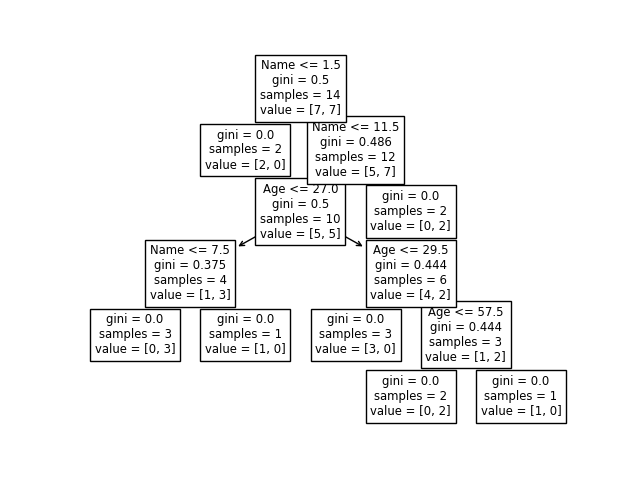
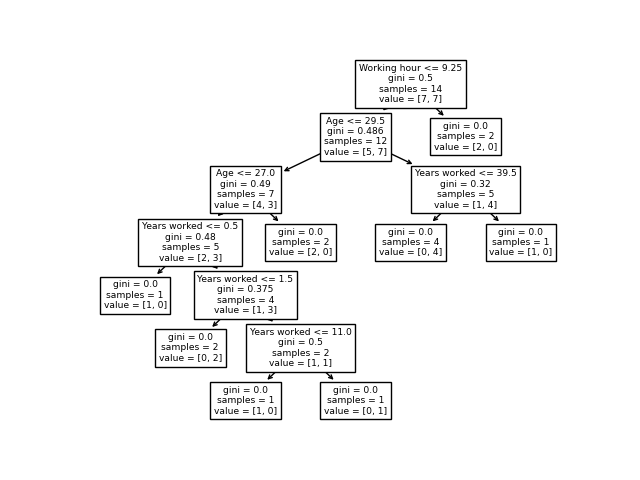
Try to make it simpler and be able to make prediction.

Changed region(s): [[0.125, 0.0938, 0.9062, 0.9062]]

diff --git a/TreeDiagramer.py b/TreeDiagramer.py
@@ -1,4 +1,6 @@
 import math
+
+import numpy
 import pandas as pd
 from sklearn import tree
 from matplotlib import pyplot as plt
@@ -19,9 +21,14 @@ def EntropyCalc(probabilities: list) -> float:
 
     return entro
 
-class GetInfoDataFrame():
-    def __init__(self,datas:pd.DataFrame):  #Put in the dataset.
+class TreeDiagramer():
+    def __init__(self,datas:pd.DataFrame,outputColmn:str=None,saveFigFileName:str=None):  #Put in the dataset.
         self.Dataset=datas
+        self.GettingInfoFromDataset()
+        self.MappingDataset()
+
+        if outputColmn!=None:
+            self.TreeDiagramingDataset(outputColmn=outputColmn,absltFileName=saveFigFileName)
 
     def GettingInfoFromDataset(self):
         self.Colmns: list = self.Dataset.columns.tolist()   #Get the columns.
@@ -70,19 +77,22 @@ class GetInfoDataFrame():
             self.treeDgrmYVals=self.MappedDataset[outputColmn]
 
             self.treeDgrm=tree.DecisionTreeClassifier()
-            self.treeDgrm=self.treeDgrm.fit(self.treeDgrmXVals,self.treeDgrmYVals)
+            self.treeDgrm=self.treeDgrm.fit(self.treeDgrmXVals.values,self.treeDgrmYVals.values)    #Fit only the values.
 
             tree.plot_tree(self.treeDgrm,feature_names=self.featrs)
 
             if absltFileName!=None:
                 plt.savefig(absltFileName)
 
+    def Predict(self,inputs:list):  #This method can be used to make predictions using the decision tree.
+        return self.treeDgrm.predict(inputs)
+
 #Example for how to use:
 if __name__=="__main__":
     #Create a dictionary that contains data, the data needed is in pandas.DataFrame datatype:
     data:dict={
-        "Name":["Mike","Aby","Jack","Tom","Jessica","Tony","Thomas","Samantha","Sandy","Ken","Alvin","Alice","Amanda","Joseph"],
         "Age":[36,24,26,29,24,30,29,24,24,28,55,60,59,60],
+        "Years worked":[12,0,1,2,1,4,21,20,2,5,35,40,39,37],
         "Gender":["Male","Female","Male","Male","Female","Male","Male","Female","Female","Male","Male","Female","Female","Male"],
         "Working hour":[12,8,8,10,8.5,8,8,8,8,0,6,7.5,7,7],
         "Able to join the company vacation":[False,False,True,False,True,True,False,True,False,False,True,False,True,True]
@@ -91,10 +101,7 @@ if __name__=="__main__":
     print("The data is make out by random with no mean to harm anyone:")
 
     df:pd.DataFrame=pd.DataFrame(data)  #Create a pandas.DataFrame with datas in the dictionary.
-    obj=GetInfoDataFrame(df)    #Create an object of GetInfoDataFrame with df as Dataset.
-    obj.GettingInfoFromDataset()    #Get the columns and variable values for each columns.
-    obj.MappingDataset()    #Convert non-int and non-float variable values into int.
-    obj.TreeDiagramingDataset("Able to join the company vacation",absltFileName="TreeDiagram.png") #Doing calculations(?) and plotting tree diagram.
+    obj=TreeDiagramer(df,outputColmn="Able to join the company vacation",saveFigFileName="TreeDiagram.png")    #Create an object of GetInfoDataFrame with df as Dataset.
 
     print("The dataset:")
     print(obj.Dataset)
@@ -105,3 +112,7 @@ if __name__=="__main__":
 
     print("The mapped dataset:")
     print(obj.MappedDataset)
+
+    predct:numpy.ndarray=obj.Predict(inputs=[[26,2,1,8]])
+
+    print(f"The prediction is: {int(predct)}")
